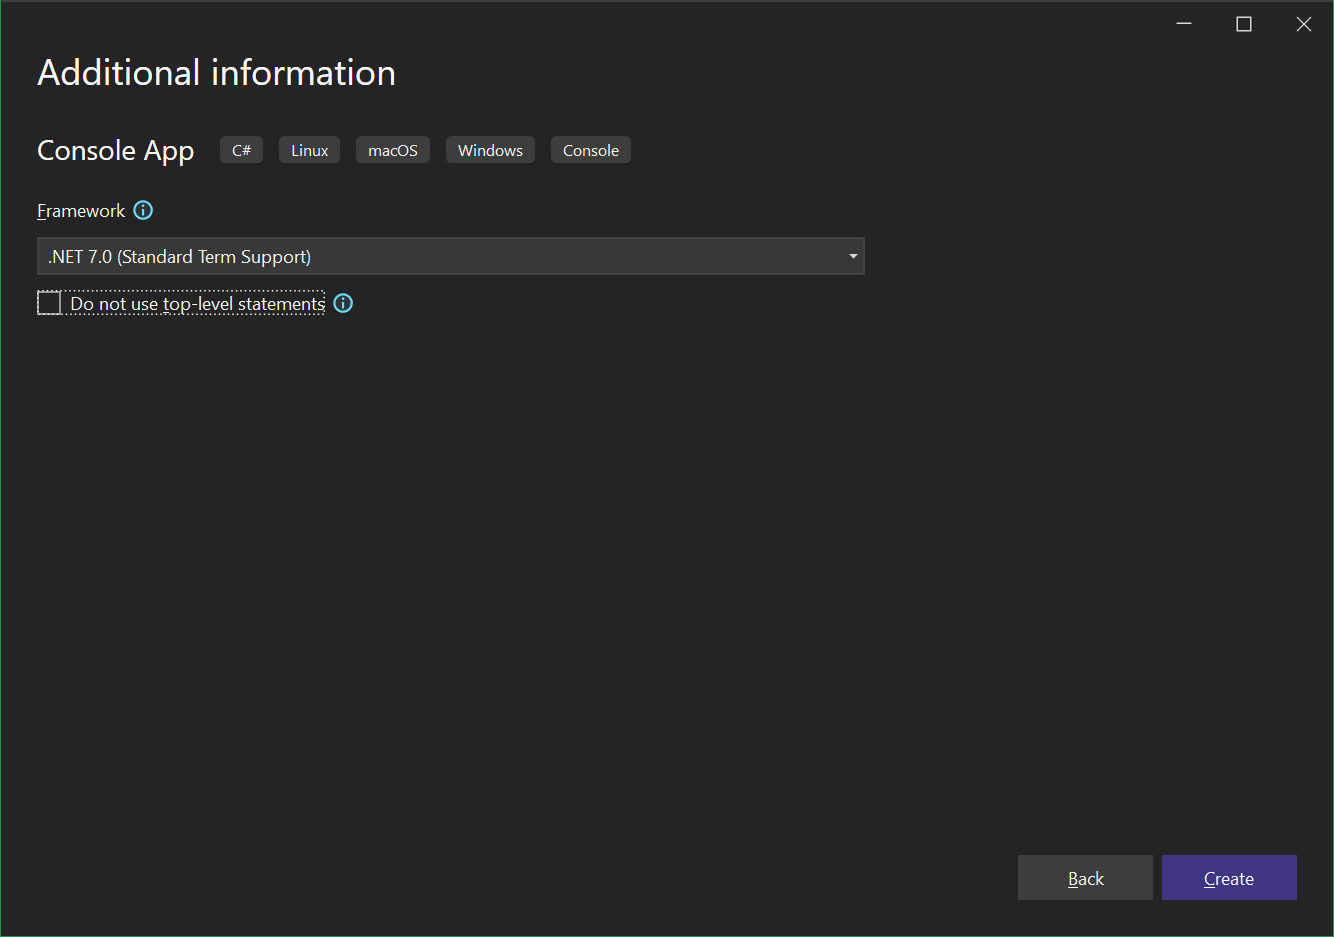
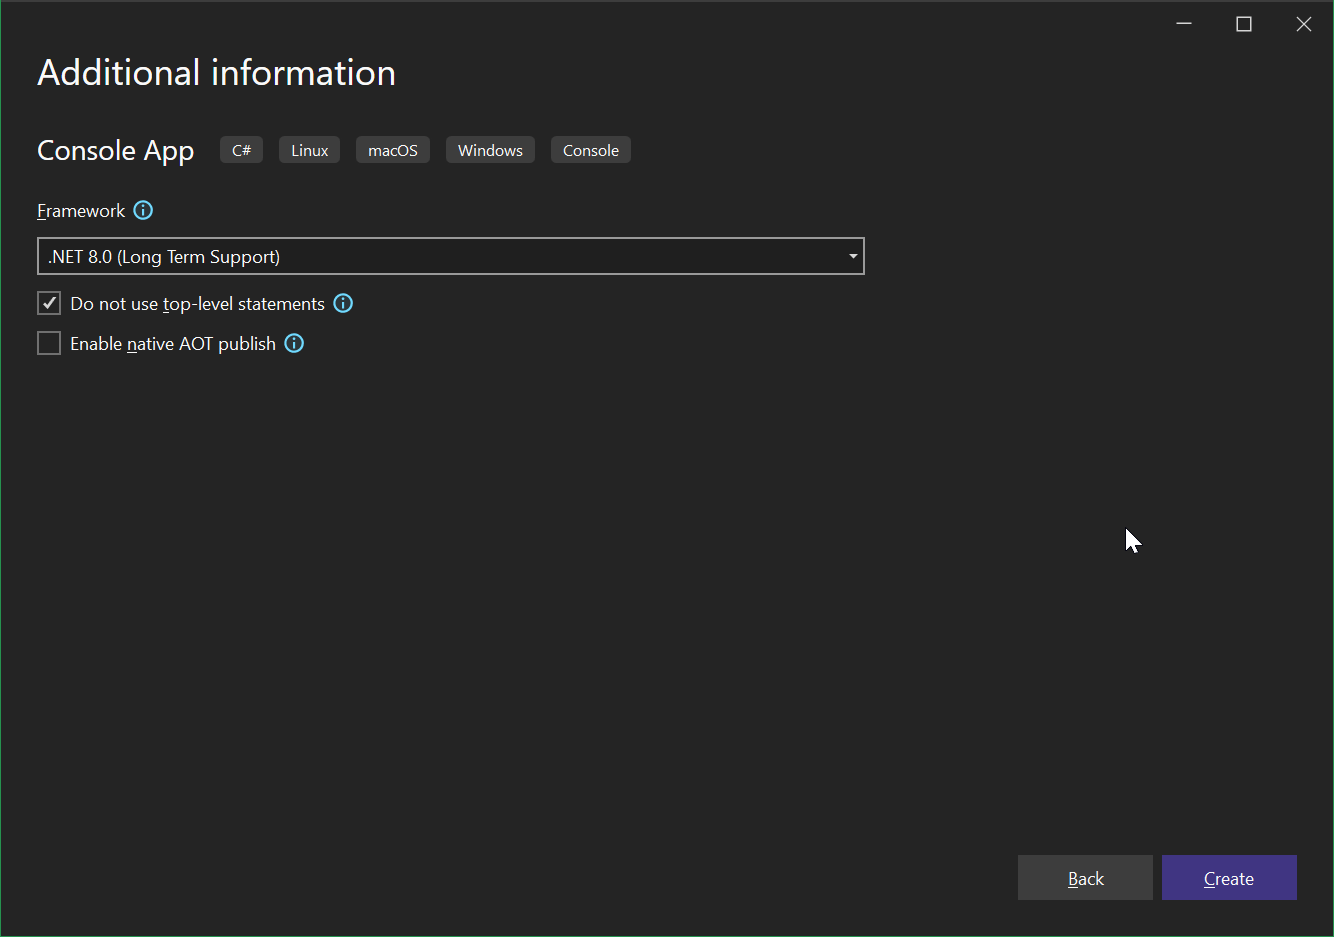
[Feature] .Net 8 Upgrade (#33)
* Update documentation and create Migration Guide
* [Core] Increment minor version
* Framework and dependent Nuget module updates
* Code optimization: remove obsolete code; fix obsolete function in CLI module; enhance CLI module test cases
* Fix PowerShell build issues: Windows-specific build like Notebook will mess up dlls of Core, so we need to build them in a separate folder
* [Core] Allow flexible Libraries path lookup for Notebook

Changed region(s): [[0.0307, 0.2476, 0.6454, 0.3714], [0.8298, 0.5571, 0.8606, 0.588]]

diff --git a/Core/Interpreter.cs b/Core/Interpreter.cs
@@ -3,6 +3,7 @@ using System.Text;
 using Console = Colorful.Console;
 using Core.Utilities;
 using System.Reflection;
+using Core.Services;
 
 namespace Core
 {
@@ -12,7 +13,7 @@ namespace Core
     public class Interpreter
     {
         #region Versioning
-        public static readonly string CoreVersion = "v0.6.3";
+        public static readonly string CoreVersion = "v0.7.0";
         public static readonly string VersionChangelog = """
             * v0.0.1-v0.0.3: Misc. basic functional implementations.
             * v0.0.3: Add functional Nuget implementation; Add support for `nugetRepoIdentifier:string` parameter for Interpreter and Roslyn Context.
@@ -39,6 +40,8 @@ namespace Core
             * v0.6.4: Specify framework version when generating NuGet package compilation project during import.
             * v0.6.5: Fix issue whem importing libraries containing types in null namespace (e.g. Octokit).
             * v0.6.6: Rename Interpreter.ScriptFile to Interpreter.ScriptPath for semantic clarity.
+            ======Runtime Change======
+            * v0.7.0: Upgrade to .Net 8; Refactor code for adding default Libraries folder to PATH from RoslynContext to Interpreter.
             """;
         #endregion
 
@@ -75,8 +78,14 @@ namespace Core
         #endregion
 
         #region Methods
-        public void Start(Action<string> outputHandler = null, IEnumerable<Assembly> additionalReferences = null)
+        public void Start(Action<string> outputHandler = null, IEnumerable<Assembly> additionalReferences = null, string[] additionalLibraryDllPaths = null)
         {
+            // Pure core standard libraries
+            AddDefaultLibraryFolderToEnvironmentPath();
+            if (additionalLibraryDllPaths != null)
+                foreach (var path in additionalLibraryDllPaths)
+                    AddToEnvironmentPath(path);
+
             Context = new RoslynContext(true, outputHandler, additionalReferences);
             if (!string.IsNullOrWhiteSpace(WelcomeMessage))
                 Console.WriteLine(WelcomeMessage);
@@ -85,6 +94,16 @@ namespace Core
             if (StartingScripts != null)
                 foreach (var script in StartingScripts)
                     Context.Parse(script, ScriptPath, NugetRepoIdentifier);
+
+            static void AddDefaultLibraryFolderToEnvironmentPath()
+            {
+                // Explicitly add "Libraries" to PATH
+                string path = Path.Combine(AssemblyHelper.ExecutingAssemblyDirectory, "Libraries");
+                if (!Directory.Exists(path))
+                    path = Path.Combine(Directory.GetCurrentDirectory(), "Libraries");
+                if (Directory.Exists(path))
+                    AddToEnvironmentPath(path);
+            }
         }
         public void Parse(string script)
             => Context.Parse(script, ScriptPath, NugetRepoIdentifier);
@@ -182,6 +201,16 @@ namespace Core
                 scripts.Add(new string('\n', totalLineCounter) + scriptBuilder.ToString().Trim());
 
             return scripts.ToArray();
+        }
+        #endregion
+
+        #region Helpers
+        public static void AddToEnvironmentPath(string additionalPath)
+        {
+            Environment.SetEnvironmentVariable("PATH",
+                Environment.GetEnvironmentVariable("PATH") != null
+                ? (Environment.GetEnvironmentVariable("PATH") + ";" + additionalPath)
+                : additionalPath);
         }
         #endregion
     }

diff --git a/StandardLibraries/CLI/Main.cs b/StandardLibraries/CLI/Main.cs
@@ -1,4 +1,5 @@
-using System.ComponentModel;
+using Humanizer;
+using System.ComponentModel;
 
 namespace CLI
 {
@@ -40,8 +41,12 @@ namespace CLI
 
             // Instantiate
             object instance;
-            if (type.GetConstructor(Type.EmptyTypes) == null)
-                instance = System.Runtime.Serialization.FormatterServices.GetUninitializedObject(type);
+            if (type.GetConstructor(Type.EmptyTypes) == null && type.GetConstructors().Count() != 0)
+            {
+                System.Reflection.ConstructorInfo constructor = type.GetConstructors().First();
+                object[] constructorDefaults = constructor.GetParameters().Select(p => p.ParameterType).Select(GetDefault).ToArray();
+                instance = Activator.CreateInstance(type, constructorDefaults);
+            }
             else
                 instance = Activator.CreateInstance(type);
 
@@ -63,6 +68,15 @@ namespace CLI
                     throw new ArgumentException($"Cannot find definition for: {Key} in type {type.Name}");
             }
             return (TType)instance;
+
+            static object GetDefault(Type type)
+            {
+                if (type.IsValueType)
+                {
+                    return Activator.CreateInstance(type);
+                }
+                return null;
+            }
         }
 
         /// <summary>
@@ -85,7 +99,7 @@ namespace CLI
         /// </summary>
         public static Dictionary<string, string[]> MapMany(bool trim, params string[] arguments)
         {
-            Dictionary<string, List<string>> map = new();
+            Dictionary<string, List<string>> map = [];
             string key = null;
             for (int i = 0; i < arguments.Length; i++)
             {
@@ -93,8 +107,10 @@ namespace CLI
                 {
                     key = arguments[i];
                     if (trim)
-                        key = key.TrimStart('-');
-                    map[key] = new();
+                        key = key.TrimStart('-')
+                            .Pascalize()
+                            .Replace("-", string.Empty);
+                    map[key] = [];
                 }
                 else
                     map[key].Add(arguments[i]);

diff --git a/Core/Implementation/RoslynContext.cs b/Core/Implementation/RoslynContext.cs
@@ -245,25 +245,9 @@ namespace Core
                 // Commonly used .Net namespace
                 options = options.AddImports("System.Math");
                 options = options.AddImports("System.Console");
-                // Pure core standard libraries
-                AddDefaultLibraryFolderToEnvironmentPath();
             }
 
             State = CSharpScript.RunAsync(string.Empty, options).Result;
-
-            static void AddDefaultLibraryFolderToEnvironmentPath()
-            {
-                // Remark-cz: The Core will be decoupled better if we don't rely on such env variables so explicitly, or at least don't modify it this way
-                // TODO: We should probably just pass in during context/interpreter initialization some external "additional" library folders instead of explicitly search for it in Core. Instead, we can search for it and initialize it as an optional option in Interpreter, which is shared by both Pure (REPL) and Notebook
-                string path = Path.Combine(AssemblyHelper.AssemblyDirectory, "Libraries");
-                if (!Directory.Exists(path))
-                    path = Path.Combine(Directory.GetCurrentDirectory(), "Libraries");
-                if (Directory.Exists(path))
-                    Environment.SetEnvironmentVariable("PATH", 
-                        Environment.GetEnvironmentVariable("PATH") != null 
-                        ? (Environment.GetEnvironmentVariable("PATH") + ";" + path)
-                        : path);
-            }
         }
         #endregion
 

diff --git a/Frontends/Notebook/MainWindow.xaml.cs b/Frontends/Notebook/MainWindow.xaml.cs
@@ -1,5 +1,6 @@
 using Core;
 using Core.Helpers;
+using Core.Services;
 using ICSharpCode.AvalonEdit;
 using Microsoft.Win32;
 using System;
@@ -31,7 +32,10 @@ namespace Notebook
             Interpreter = new Interpreter($"""
                     Pure Notebook (Core Version: {Interpreter.CoreVersion})
                     """, null, args.Length > 2 ? args.Skip(2).ToArray() : null, null, null);
-            Interpreter.Start(OutputHandlerNonMainThread);
+            // Remark-cz: Update for Notebook post .Net 8 upgrade, where we build Notebook.exe in dedicated Windows folder
+            string assemblyParentFolder = Path.GetDirectoryName(AssemblyHelper.ExecutingAssemblyDirectory);
+            string librariesPath = Path.Combine(assemblyParentFolder, "Libraries");
+            Interpreter.Start(OutputHandlerNonMainThread, additionalLibraryDllPaths: Directory.Exists(librariesPath) ? [librariesPath] : null);
 
             if (args.Length >= 2)
             {

diff --git a/CLITest/ParsingTest.cs b/CLITest/ParsingTest.cs
@@ -33,6 +33,14 @@ namespace CLITest
         }
 
         [Fact]
+        public void ShouldSupportHyphensOrDashesOrUnderscores()
+        {
+            Assert.True(CLI.Main.Parse<TestRecord001>("--SkipFirstLine").SkipFirstLine);
+            Assert.True(CLI.Main.Parse<TestRecord001>("--skip-first-line").SkipFirstLine);
+            Assert.True(CLI.Main.Parse<TestRecord001>("--skip_first_line").SkipFirstLine);
+        }
+
+        [Fact]
         public void ParsingShouldBeCaseInsensitive()
         {
             var p1 = CLI.Main.Parse<TestRecord001>("--inputPath", "Input.csv", "--skipFirstLine", "False");

diff --git a/Core/Services/NugetHelper.cs b/Core/Services/NugetHelper.cs
@@ -47,7 +47,7 @@ namespace Core.Services
             {
                 string scriptPath = Path.Combine(packageFolder, "Script.ps1");
                 File.WriteAllText(scriptPath, $"""
-                    dotnet new console --language C# --name TempProject --framework net7.0
+                    dotnet new console --language C# --name TempProject --framework net8.0
                     cd TempProject
                     dotnet add package {packageName}
                     dotnet build --runtime win-x64 --no-self-contained --output ..\CompiledDLLs

diff --git a/StandardLibraries/Plot/Main.cs b/StandardLibraries/Plot/Main.cs
@@ -138,7 +138,7 @@ namespace Graphing
         public static void SummonInteractiveWindow(PlotType plotType, double[] x, List<double[]> ys, PlotOptions options)
         {
             string executableName = "PlotWindow.exe";
-            string defaultPath = Path.Combine(GetAssemblyFolder(), executableName);
+            string defaultPath = Path.Combine(GetAssemblyFolder(), "Windows", executableName);
             string secondaryPath = PathHelper.FindDLLFileFromEnvPath(executableName);
 
             // Find plot window executable

diff --git a/Core/Implementation/ParsingException.cs b/Core/Implementation/ParsingException.cs
@@ -16,9 +16,5 @@ namespace Core
         public RecursiveParsingException(string message, Exception innerException) : base(message, innerException)
         {
         }
-
-        protected RecursiveParsingException(SerializationInfo info, StreamingContext context) : base(info, context)
-        {
-        }
     }
 }

diff --git a/Core/Services/AssemblyHelper.cs b/Core/Services/AssemblyHelper.cs
@@ -2,9 +2,9 @@
 
 namespace Core.Services
 {
-    internal static class AssemblyHelper
+    public static class AssemblyHelper
     {
-        public static string AssemblyDirectory
+        public static string ExecutingAssemblyDirectory
         {
             get
             {

diff --git a/README.md b/README.md
@@ -1,4 +1,4 @@
-# Pure - Lightweight Native C# Scripting Environment for .Net 7
+# Pure - Lightweight Native C# Scripting Environment for .Net 8 👩💻
 
 Pure is a lightweight scripting environment based on Roslyn, offering some standard libraries for quick common tasks, and provides a handy scripting (REPL and Notebook) interface.  
 The Notebook interface is only usable for Window - but one can easily develop one for other desktop environments using cross-platform techniques. I didn't bother because I am the only one using Pure.
@@ -20,8 +20,8 @@ I have highlighted the difference/advantage compared to traditional programming/
 
 |Platform|Pure|C#|Python|PowerShell|Perl|
 |-|-|-|-|-|-|
-|Installation Size|Required .Net 7 (ASP.Net) Runtime; Distributable is around 100Mb|Proper development with an IDE (Visual Studio or IntelliJ) takes forever to install.|Too many versions.|Super easy to install and use.|Super lightweight and fast.|
-|Stability|C# .Net 7 based, will probably never change, very stable (depends on underlying C#); Very little new language constructs. Easily migratable to proper C#|Very stable as long as one doesn't bother GUI.|Fairly stable.|Fairly stable.|(PENDING)|
+|Installation Size|Required [.Net 8 (ASP.Net) Runtime](https://dotnet.microsoft.com/en-us/download/dotnet/8.0); Distributable is around 100Mb|Proper development with an IDE (Visual Studio or IntelliJ) takes forever to install.|Too many versions.|Super easy to install and use.|Super lightweight and fast.|
+|Stability|C# .Net 8 based, will probably never change, very stable (depends on underlying C#); Very little new language constructs. Easily migratable to proper C#|Very stable as long as one doesn't bother GUI.|Fairly stable.|Fairly stable.|(PENDING)|
 |Package Management/Functionalities|Zero-hassle package management and functionalities import; Single-file throughout.|Many button-clicks (in IDE) or commands or csproj file modification to install pckages. Self-contained dependancy environment; Fast and lightweight.|Package management is troublesome, messy distributable/end script environments.|Batteries packed and I think generally bad idea to import additional non-official functionalities.|(PENDING)|
 |Summary|Provides most efficient short-snippet authoring capabilities.|Best for strongly typed and highly articulated solutions.|Lack of advanced language constructs; Ubiquitous support.|Good process automation; Syntax not suited for efficient OOP programming.|(PENIDNG)|
 
@@ -39,6 +39,13 @@ Pure provides the following standard libraries for "making things easier":
 |Pipeline|Shell-level task automation.|Experimental|
 |Razor|Single-entry exposure of Razor template engine.|Experimental|
 |CentralSnippets|Endpoint for [Central Snippets](https://centralsnippets.pure.totalimagine.com/) public sharing.|Experimental|
+|Vector|Add-on style vector (numerical array) processing, providing wide range of utility calculations targeting finance and other areas; This library prefers utility over efficiency and is a shorthand way (during scripting) compared to more involved Math.Net etc.|Experimental|
+
+Some non-official libraries are provided as experimental/for convinience purpose that may not have reliable support:
+
+|Library|Purpose|
+|-|-|
+|Plot|Easy plotting.|
 
 Certain macros/syntax are provided to implement language level scripting constructs:
 
@@ -68,7 +75,7 @@ At the moment, the version of Pure suites shall be identified/associated with [C
 
 ## Installation
 
-The source code can be built on Windows/Linux with .Net 7 SDK.
+The source code can be built on Windows/Linux with .Net 8 SDK.
 
 * To use on Windows, just download prebuilt executables from [Release](./releases/latest).
 * To build on Linux, either try `PublishAll.ps1` (require `pwsh`), or just do `otnet publish Frontends/Pure/Pure.csproj --use-current-runtime --output Publish`.
@@ -77,13 +84,13 @@ The source code can be built on Windows/Linux with .Net 7 SDK.
 
 There are three types of ready-to-use libraries for Pure:
 
-* Any regular C# Net 7 DLL, as published on [Nuget](https://www.nuget.org/).
+* Any regular C# Net 8 DLL, as published on [Nuget](https://www.nuget.org/). May work with older versions of .Net Core dlls but use discretion; May even also work with .Net Framework dlls but I observed occassions when behaviors are unpredictable.
 * Any user-authored scripts that may be included using `Inlcude` macro.
 * Any user-shared snippets published on [Central Snippets](https://github.com/Pure-the-Language/CentralSnippets) or similar places.
 
 The intended usage scenario of Pure is like this:
 
-* Pure provides a complete syntax and all of the standard features of .Net 7 runtime
+* Pure provides a complete syntax and all of the standard features of .Net 8 runtime (C# 12)
 * On top of the basics, Pure provides some standard libraries to further streamline common tasks
 * On top of that, Pure provides native support for library importing (using `Import()`) and scripting importing (using `Include()`)
 * When extending existing functionalities of Pure or simply developing libraries around re-usable code, a developer would write actual C# Class Library projects and expose those as DLLs for end consumption in Pure.
@@ -93,11 +100,11 @@ By default, when importing in Pure, all namespaces of the DLL module containing 
 
 **Troubleshooting**
 
-Pure is written in Net 7. However, when loading external DLLs, it's currently only safe to assume only Net Standard 2.0 and maybe Net Core 3.1 contexts are supported (i.e. just loading Net 7 may not work out of the box). For instance, System.Data.Odbc will throw exception "Platform not Supported" even though the platform (e.g. win64) is supported - it's the runtime that's causing the issue. A temporary workaround is when developing plugin/libraries, all plugins should target Net Standard 2.0+ or Net Core 3.1+ or Net Framework 4.6.1+. In reality, the issue is NOT within Net 7 as hosting context - THE RUNTIME IS INDEED 7.0.1 (within Roslyn), and [CSharpREPL](https://github.com/waf/CSharpRepl) (our reference interpreter) can consume System.Data.Odbc without problem, so we should be able to load Net 7 assemblies, it's just due to the way we handle DLL loading, we need to load exactly the correct DLL and cannot load an "entry" dll. We use CSharpREPL to find the correct DLL that we need (e.g. for ODBC, it should be `AppData\Roaming\.csharprepl\packages\System.Data.Odbc.7.0.0\runtimes\win\lib\net7.0\System.Data.Odbc.dll`).
+Pure is written in Net 8. However, when loading external DLLs, it's currently only safe to assume only Net Standard 2.0 and maybe Net Core 3.1 contexts are supported out-of-the-box (i.e. just loading Net 8 dlls may not work right away). For instance, `System.Data.Odbc` will throw exception "Platform not Supported" even though the platform (e.g. win64) is supported - it's the runtime that's causing the issue. A temporary workaround is when developing plugin/libraries, all plugins should target Net Standard 2.0+ or Net Core 3.1+ or Net Framework 4.6.1+. In reality, the issue is NOT within Net 8 as hosting context - THE RUNTIME IS INDEED 8.0.0 (within Roslyn), and [CSharpREPL](https://github.com/waf/CSharpRepl) (our reference interpreter) can consume System.Data.Odbc without problem (in the case of .Net 7), so we should be able to load Net 8 assemblies, it's just due to the way we handle DLL loading, we need to **load exactly the correct DLL** and cannot load an "entry" dll. We can use CSharpREPL to find the correct DLL that we need (e.g. for ODBC targeting .Net 7, it should be `AppData\Roaming\.csharprepl\packages\System.Data.Odbc.7.0.0\runtimes\win\lib\net7.0\System.Data.Odbc.dll`). In practice, when looking at the temporary dotnet build solution, one can find specific dlls under a `runtimes` folder.
 
-System.Drawing is not (directly) supported on this platform. Notice the scenario is like that when using ODBC libraries - likely because it has many runtime versions. This is because at the moment "Import" cannot properly make use of the likely-redirection dlls. One solution for this is to select specific runtime when build instead of target "Portable" runtime.
+System.Drawing is not (directly) supported on this platform. Notice the scenario is like that when using ODBC libraries - likely because it has many runtime versions. This is because at the moment "Import" cannot properly make use of the likely-redirection dlls. One solution for this is to select specific runtime when build instead of target "Portable" runtime. When trying to import modules, Pure will notify the user about such scenarios.
 
-Library Authoring Requirements: Note that any (plug-in) libraries being authored CANNOT (and thus should not) directly target (or indirectly target) *.Net 7 Windows* because the hosting environment (aka. Pure) target *.Net 7* (without specifying windows as target). The solution for this is to isolate such components and trigger as sub-process (so some sort of data tranmission or IPC is needed).
+Library authoring requirements: Note that any (plug-in) libraries being authored CANNOT (and thus should not) directly target (or indirectly target) *.Net 8 Windows* because the hosting environment (aka. Pure) target *.Net 8* (without specifying windows as target). The solution for this is to isolate such components and trigger as sub-process (so some sort of data tranmission or IPC is needed).
 
 ## Visual Studio Development
 
@@ -105,7 +112,7 @@ For quick on-demand develpment, it's recommended to use [Notebook](./Frontends/N
 
 For slightly more involved scripts, one can use Visual Studio for debugging purpose. (For more advanced applications, it's recommended to use proper C#). Notice it's recommended to keep everything in single file and do not commit csproj and sln files to version control.
 
-Create a C# Console project with .Net 7 while making sure *Do not use top level statements* is toggled off.
+Create a C# Console project with .Net 8 while making sure *Do not use top level statements* is toggled off.
 
 ![VSDevSetup_Step1](./docs/Images/VSDevSetup_Step1.png)
 ![VSDevSetup_Step2](./docs/Images/VSDevSetup_Step2.png)
@@ -219,7 +226,7 @@ b = 7 // Bad: b is not defined
 
 ### Import Libraries
 
-Use `Import(<Library Name>)` to import libraries. Libraries should be available under PATH as .Net 7 (or .Net Standard) DLL files.
+Use `Import(<Library Name>)` to import libraries. Libraries should be available under PATH as .Net 8 (or .Net Standard) DLL files.
 
 A library is a collection of C# functionalities. ~~It can optionally expose a static Main class, the methods of which will become available at global scope upon import~~ (deprecating, consider using `using static` explicitly instead).
 

diff --git a/docs/MigrationGuide.md b/docs/MigrationGuide.md
@@ -1,0 +1,36 @@
+# Migration Guide
+
+Below lists the steps we take from migrating from .Net 7 to .Net 8, which might serve as reference for future upgrades:
+
+- [x] Replace all mentioning of .Net 7 in source code to .Net 8 and fix related comments/codes; Search for: `.net 7` and `net7`
+- [x] Change all `.csproj` to target net 8
+- [x] Make sure all project package references are upgraded accordingly, especially concerning code compilation services; We can search globally `7.0` to identify such locations; Update module dependancies related to `Microsoft.CodeAnalysis.CSharp`
+- [x] Run all available unit tests
+- [ ] Update `PublishAll.ps1` script if there is any `dotnet` CLI arguments syntax change
+- [x] Increment and update CoreVersion variable and corresponding changelog string.
+- [ ] Test and make sure `Import` still work (as implemented in `TryDownloadNugetPackage`), and targets .Net 8
+- [x] Delete everything from ***Publish*** and ***.vs*** folder and build fresh; Delete `AppData\Local\Temp\Pure\NugetDownloads`
+- [x] Follow and double check with https://learn.microsoft.com/en-us/aspnet/core/migration/70-80 for additional steps
+- [x] Good thing we are not using Blazor or ASP.Net Core or any other larger framework otherwise migration can be a hassle - and we should keep avoid doing that in the future
+- [ ] Core libraries: Make sure ODBC and Razor works
+
+We can identify the following as "fragile" components that's .Net version sensitive:
+
+* Core module's dependancy on Roslyn compilation services
+* Razor module's dependancy on RazorEngine.NetCore
+* Behavior of `Import` macro
+* Any windows-specific modules (e.g. plotting)
+
+User upgrade guide:
+
+- [ ] Decide whether upgrade is necessary based on whether referenced NuGet packages in user scripts are incompatible with .Net 8
+- [ ] Run .Net 8 runtime AND ASP.Net Core hosting bundle: (For windows) [ASP.Net Core Hosting Bundle](https://dotnet.microsoft.com/en-us/download/dotnet/thank-you/runtime-aspnetcore-8.0.0-windows-hosting-bundle-installer), [.Net 8 Runtime](https://dotnet.microsoft.com/en-us/download/dotnet/thank-you/runtime-8.0.0-windows-x64-installer), [.Net Desktop Runtime](https://dotnet.microsoft.com/en-us/download/dotnet/thank-you/runtime-desktop-8.0.0-windows-x64-installer)
+- [ ] Install latest Pure distribution; BREAKING CHANGE: If `Notebook` is used, its path has been moved, so one might need to modify shortcut target or add new path to environment `PATH` - it's now in `<Pure Distribution Folder>\Windows\Notebook.exe`
+- [ ] Make sure all modules in `PATH` that user script depends on are updated and built for. Net 8
+- [ ] (THIS STEP IS NECESSARY) Delete contents in `AppData\Local\Temp\Pure\NugetDownloads` folder for a fresh start
+
+References:
+
+* https://learn.microsoft.com/en-us/aspnet/core/migration/70-80
+* https://learn.microsoft.com/en-us/dotnet/core/compatibility/8.0
+* https://learn.microsoft.com/en-us/dotnet/core/compatibility/sdk/8.0/dotnet-publish-config

diff --git a/UnitTests/README.md b/UnitTests/README.md
@@ -1,0 +1,3 @@
+# Unit Tests
+
+Notice because of the monolithic natuer of RoslynContext, some of those unit tests require to be run one by one and cannot run at the same time.
